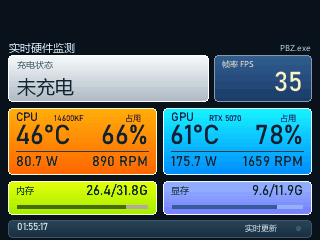
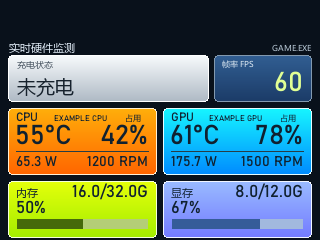
复核修正: 修依赖安装报错/统一network.bind口径/补固件换址后哈希同步/模式A截图改用示例数据

diff --git a/tools/patch_firmware.py b/tools/patch_firmware.py
@@ -70,6 +70,7 @@ def cmd_patch_url(args) -> None:
     patched = patched[:-4] + crc.to_bytes(4, "little")
     print(f"替换 {count} 处 URL：{args.old} -> {args.new}")
     print(f"尾部 CRC 重算为 {crc:#010x}")
+    print("请把下面输出的 SHA256 填回 config.json 的 firmware.loader_sha256，否则安装会被拒绝。")
     write(Path(args.output), patched)
 
 

diff --git a/README.md b/README.md
@@ -93,9 +93,9 @@
 - **界面定稿**：银白金属充电卡与功率、电压电流合并为一卡；帧率卡归到 GPU 上方；
   CPU/GPU 增加真实风扇 RPM（不用控制百分比冒充）；128 色 Median Cut 渐变，
   GIF 稳定在 24572 字节上限内，5 秒过期判定没有放宽。
-- **断网自恢复**：服务改绑 `0.0.0.0`，解决开机早于 Wi-Fi 时 `WinError 10049`
-  导致两块屏一起显示「数据已过期」；再加每分钟端口守护，实测人为停掉两个服务后
-  1 分钟内自动恢复。脚本见 `tools/screen_service_watchdog.py`。
+- **断网自恢复**：开机时服务可能早于 Wi-Fi 就绪而启动失败；加了每分钟端口守护，
+  自动重试到网络就绪为止。实测人为停掉两个服务后 1 分钟内恢复。
+  脚本见 `tools/screen_service_watchdog.py`。
 - **宣传物料**：52 秒横版宣传片三版与社交媒体 5 图、两版文案，生成工程在 `video/`。
 
 完整数据、演练时间线和未覆盖范围见
@@ -121,7 +121,7 @@
 各占一个端口、各用一份事务文件，其余流程完全一样，见
 [docs/07-一块屏的两种模式.md](docs/07-一块屏的两种模式.md)。
 
-**模式 A · 硬件监控台**
+**模式 A · 硬件监控台（截图使用示例数据）**
 
 ![硬件监控台](images/mode-a-hardware.png)
 
@@ -222,9 +222,26 @@ copy config.example.json config.json
 |---|---|
 | `device.did` | 这块屏的 DID（纯数字，第 2 步的体检命令会告诉你） |
 | `device.device_ip` | 这块屏在局域网的 IP |
-| `network.bind` | **你电脑**的局域网 IP，别填 `0.0.0.0`，屏要主动访问你 |
+| `network.bind` | **你电脑**的局域网 IP。必须填真实地址，不要填 `0.0.0.0`：装加载器时脚本要用它生成「设备来下载固件」的地址 |
 | `upstream.repo` | 上游 `cuktech-ap01-firmware-tools` 在你电脑上的绝对路径 |
 | `allowed_dids` | 把示例 DID 换成你自己的；回原厂脚本只认这个白名单 |
+
+> 🔴 **地址三处必须一致，这是最容易漏的一步**：
+> 预编译加载器里写死的是 `http://192.168.1.160:<端口>/live.bin`。
+> 二选一：
+>
+> 1. **推荐**：在路由器里把电脑固定为 `192.168.1.160`，什么都不用改；
+> 2. 改加载器里的地址（**新旧地址长度必须完全相同**，否则只能重新编译加载器）：
+>
+> ```bash
+> python tools/patch_firmware.py patch-url --in firmware/加载器_0031_18766_账户余额.bin --out build/loader.bin --old http://192.168.1.160:18766/live.bin --new http://192.168.1.101:18766/live.bin
+> ```
+>
+> 命令会打印新固件的 SHA256。**把这串值填回 `config.json` 的
+> `firmware.loader_sha256`**，并把 `firmware.loader` 指向新文件，
+> 否则第 4 步安装脚本按哈希校验会直接拒绝。`config.json` 的 `network.bind`
+> 填同一个电脑 IP。示例里的 `192.168.1.101` 请换成你自己电脑的地址，
+> 位数必须和 `192.168.1.160` 一样。
 
 **顺便在这里选好模式**（样例配置默认是模式 B）：
 
@@ -325,9 +342,9 @@ python tools/install_loader.py --execute-once
 不要用「系统服务」方式——DeepSeek 的密钥用 DPAPI 加密，绑的是当前登录用户，
 服务账户读不出来。
 
-**再加一层守护（建议）**：登录时服务可能早于 Wi-Fi 就绪，导致绑定固定地址失败。
-显示服务监听 `0.0.0.0` 可以消除这个竞态；再建一个每分钟触发的任务，
-用 `pythonw.exe` 跑 `tools/screen_service_watchdog.py`，端口掉了自动重启对应任务：
+**再加一层守护（建议）**：登录时服务可能早于 Wi-Fi 就绪，绑定局域网地址会报
+`WinError 10049` 并退出。建一个每分钟触发的任务，用 `pythonw.exe` 跑
+`tools/screen_service_watchdog.py`，端口掉了就重启对应任务，网络一就绪就自动恢复：
 
 ```
 pythonw.exe tools/screen_service_watchdog.py --service 18765=你的模式A任务名 --service 18766=你的模式B任务名

diff --git a/docs/13-1110-稳定性与界面定稿.md b/docs/13-1110-稳定性与界面定稿.md
@@ -74,8 +74,11 @@ GIF 约 21~22 KB。
 
 ### 两层修法
 
-1. **消除启动竞态**：两个服务都改为监听 `0.0.0.0`，不再要求开机瞬间
-   已经拿到固定地址。Wi-Fi 稍后取得地址时，服务自然在该地址上可用，无需重启。
+1. **消除启动竞态（运行服务）**：实际部署时把显示服务改为监听 `0.0.0.0`，
+   不再要求开机瞬间已经拿到固定地址。
+   ⚠ 本仓库 `tools/install_loader.py` 用 `network.bind` 生成「设备来下载固件」的
+   地址，**安装阶段必须填真实局域网 IP**；两处不要混用，见
+   [06-电脑端显示服务.md](06-电脑端显示服务.md)。
 2. **持续自愈**：新增 `tools/screen_service_watchdog.py`，由计划任务每分钟
    用 `127.0.0.1` 检查两个端口；正常时什么都不做，端口消失就结束并重启
    对应任务，结果写入独立 JSONL 日志。用 `127.0.0.1` 是为了让路由器短时

diff --git a/docs/06-电脑端显示服务.md b/docs/06-电脑端显示服务.md
@@ -137,7 +137,7 @@ Connection: close
 |---|---|
 | `device.did` | 目标屏幕 DID，纯数字 |
 | `device.device_ip` | 屏幕 IP，用于 `/live.bin` 白名单和请求计数 |
-| `network.bind` | 电脑监听地址，填局域网 IP，不要填 `0.0.0.0` |
+| `network.bind` | 电脑局域网 IP，必须填真实地址；装加载器时脚本要用它生成设备来下载固件的地址 |
 | `network.display_port` | 默认 18766；硬件监测模式用 18765 |
 | `paths.state_dir` | GIF、current.json、日志目录，默认 `run/` |
 | `sources.workbuddy_snapshot` | 本机快照地址 |
